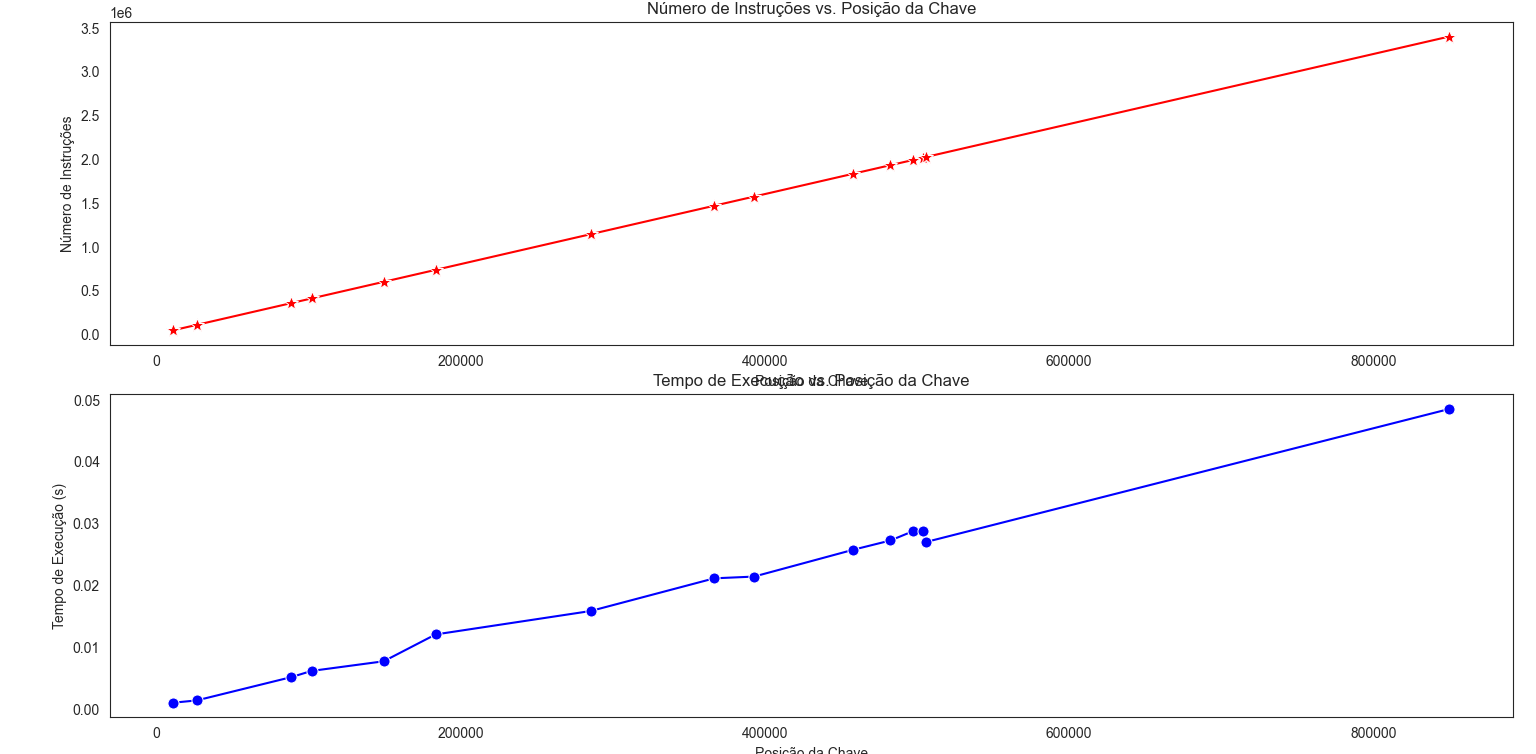
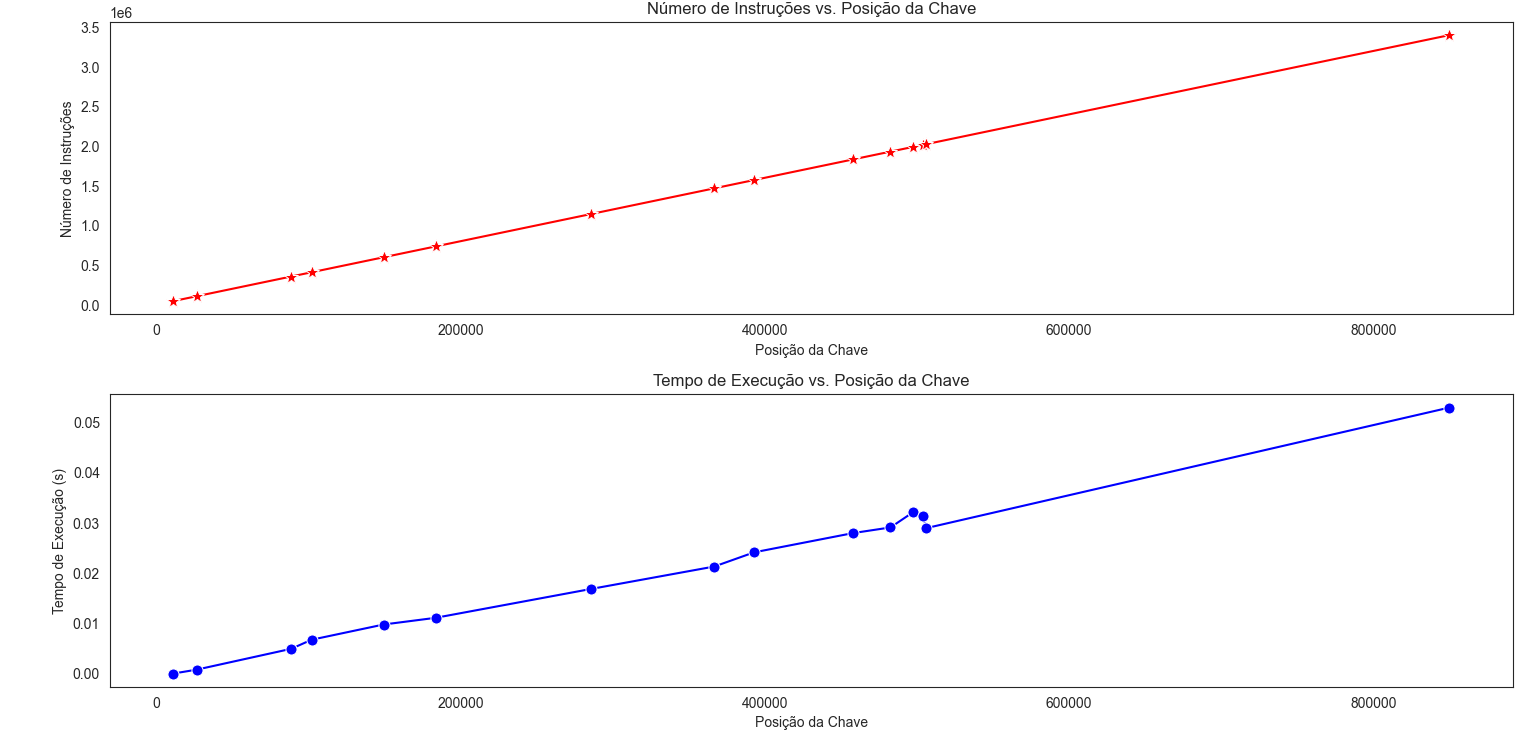
atualizando fotos

diff --git a/Analise_da_busca_linear.py b/Analise_da_busca_linear.py
@@ -129,7 +129,7 @@ fig, axes = plt.subplots(2, 1, figsize=(10, 12))  # Criando 2 subgráficos (2 li
 sns.lineplot(ax=axes[0], data=df, x="Posicao", y="Instrucoes",
              color="red", marker="*", markersize=10)
 axes[0].set_title('Número de Instruções vs. Posição da Chave')
-axes[0].set_xlabel('Posição da Chave\n')
+axes[0].set_xlabel('Posição da Chave\n\n\n')
 axes[0].set_ylabel('Número de Instruções')
 
 
@@ -137,7 +137,7 @@ axes[0].set_ylabel('Número de Instruções')
 sns.lineplot(ax=axes[1], data=df, x="Posicao", y="Tempo",
              color="blue", marker="o", markersize=8)
 axes[1].set_title('Tempo de Execução vs. Posição da Chave')
-axes[1].set_xlabel('Posição da Chave\n')
+axes[1].set_xlabel('Posição da Chave\n\n\n')
 axes[1].set_ylabel('Tempo de Execução (s)')
 
 # Ajustando layout para melhor visualização
